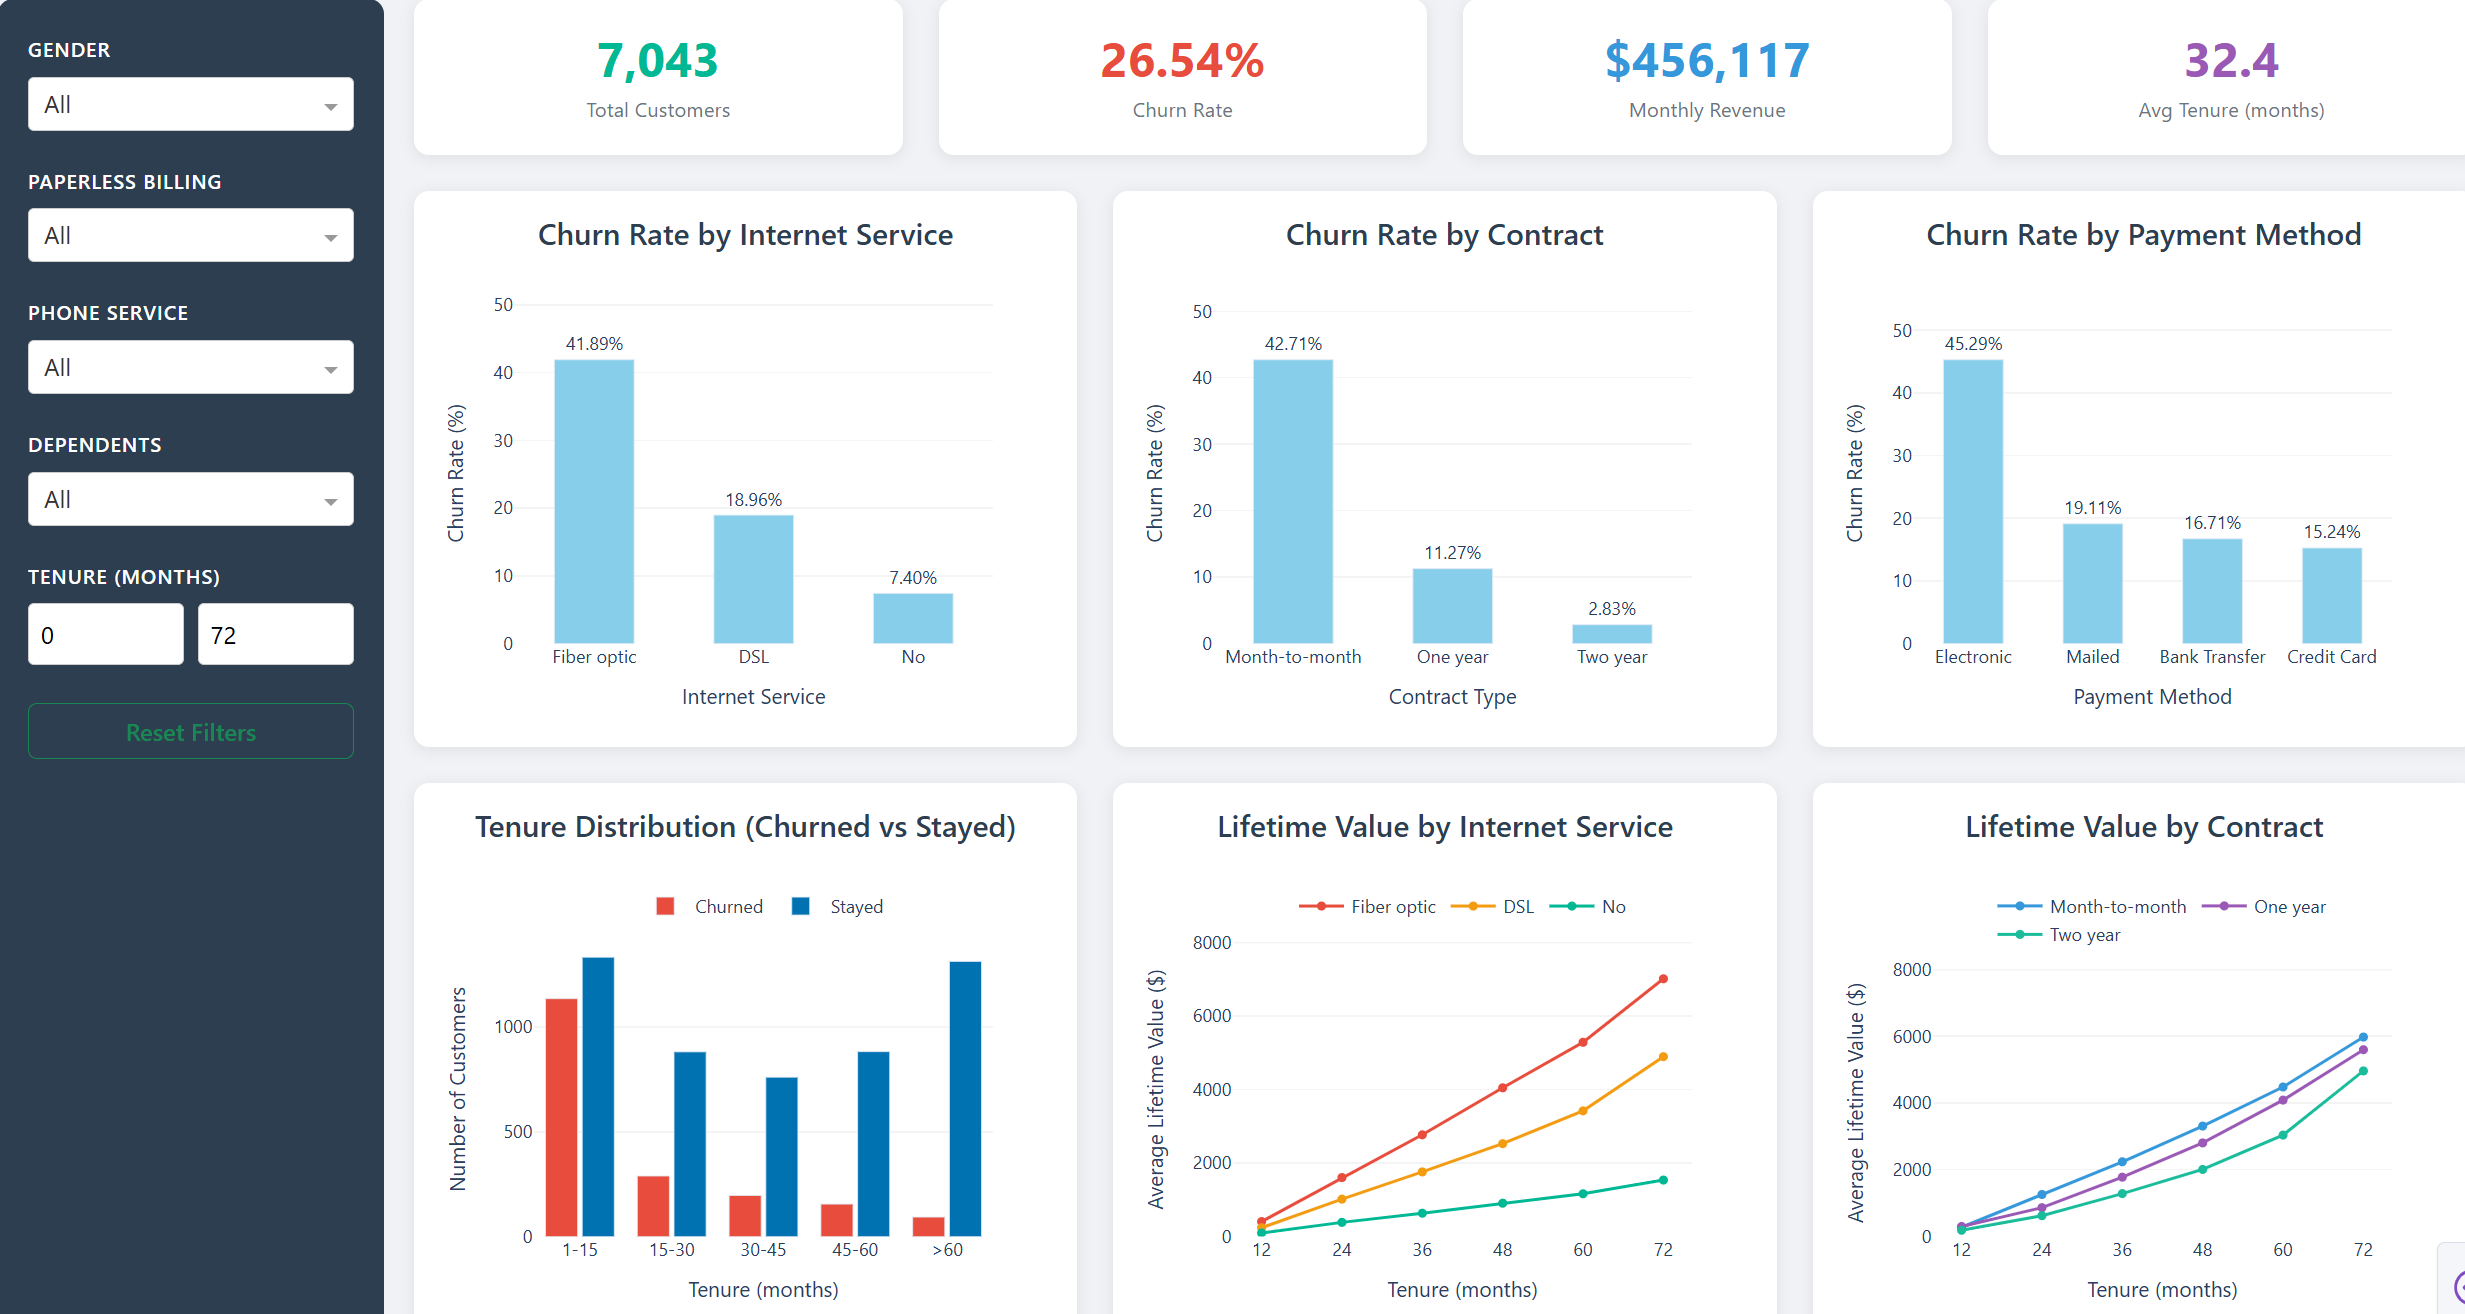
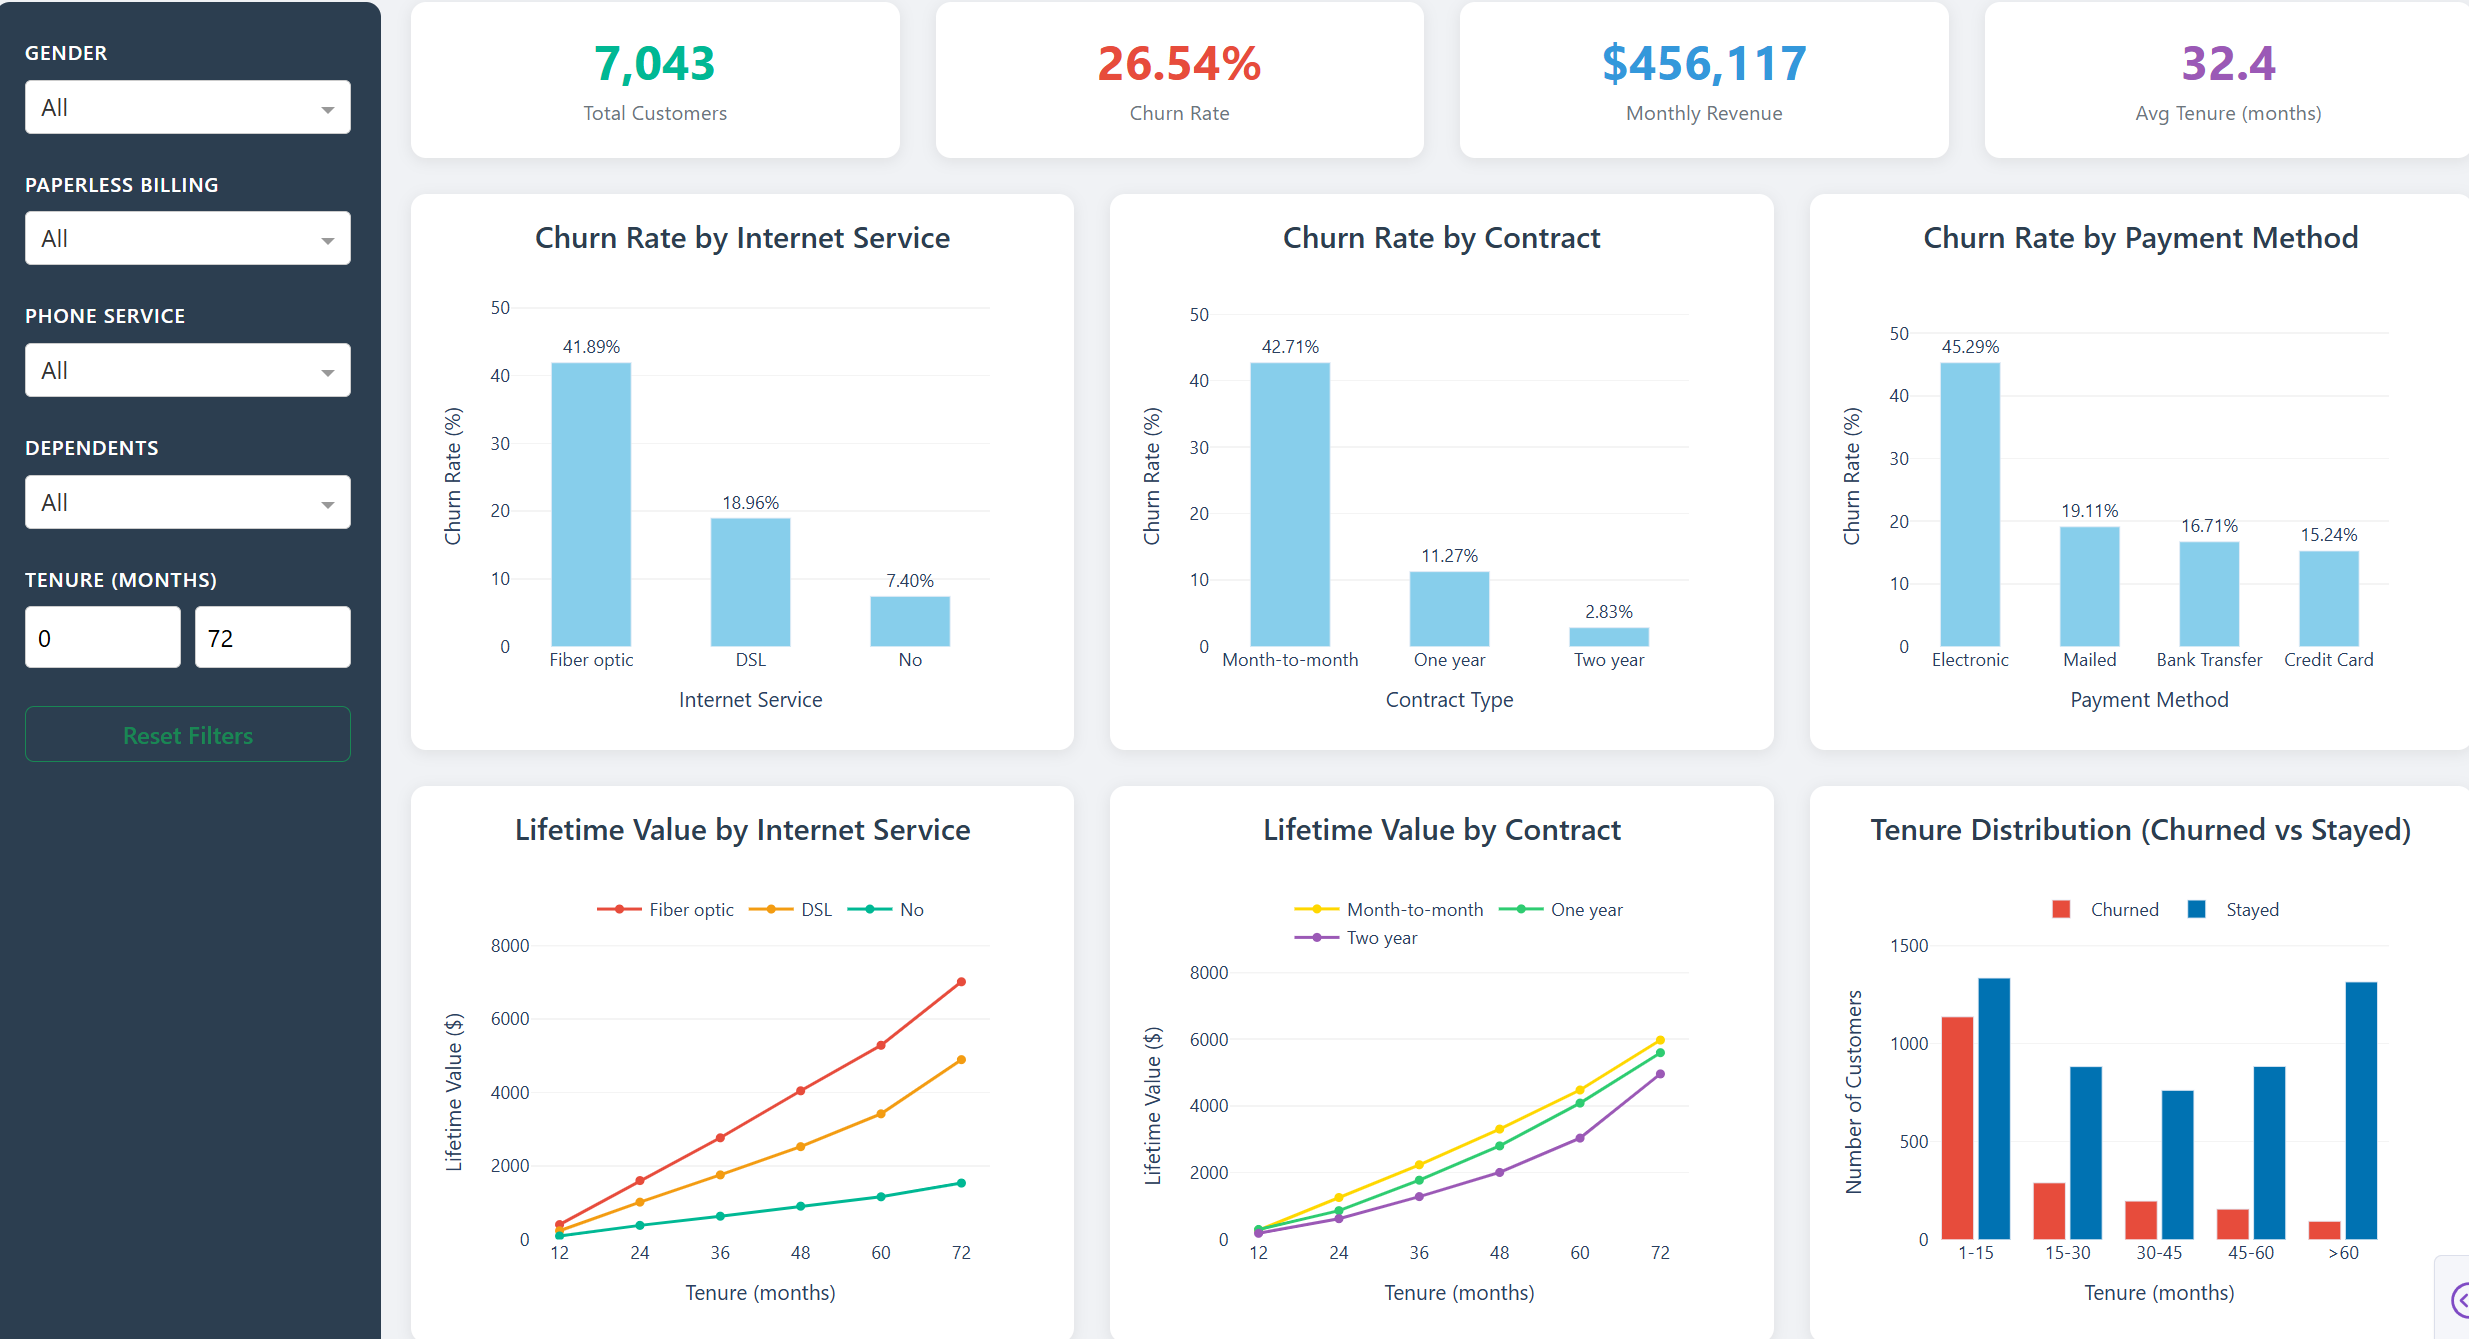
Update demo

diff --git a/churn_dashboard.py b/churn_dashboard.py
@@ -218,8 +218,10 @@ def create_tenure_histogram(df):
         xaxis_title='Tenure (months)',
         yaxis_title='Number of Customers',
         yaxis=dict(
+            range=[0, 1500],
             showgrid=True,
-            gridcolor='rgba(200, 200, 200, 0.2)'
+            gridcolor='rgba(200, 200, 200, 0.2)',
+            dtick=500
         ),
         barmode='group',
         plot_bgcolor='rgba(0,0,0,0)',
@@ -233,7 +235,21 @@ def create_tenure_histogram(df):
             y=1.05,
             xanchor='center',
             x=0.5
-        )
+        ),
+        shapes=[
+            dict(
+                type='line',
+                x0=0,
+                x1=1,
+                xref='paper',
+                y0=1500,
+                y1=1500,
+                line=dict(
+                    color='rgba(200, 200, 200, 0.4)',
+                    width=1
+                )
+            )
+        ]
     )
     
     return fig
@@ -246,9 +262,24 @@ def create_ltv_by_internet_service_chart(df):
     
     df_copy = df.copy()
     df_copy['TenureBin'] = pd.cut(df_copy['tenure'], bins=bins, labels=labels, include_lowest=True)
+
+    print(df_copy.head())
     
-    # Calculate average TotalCharges (as LTV proxy) by tenure bin and internet service
-    ltv_data = df_copy.groupby(['TenureBin', 'InternetService'], observed=True)['TotalCharges'].mean().reset_index()
+    # Calculate LTV using formula: avg. spend per year per customer x avg. customer tenure in years
+    # LTV = (TotalCharges / tenure in years) * avg tenure in years for that bin
+    ltv_data = df_copy.groupby(['TenureBin', 'InternetService'], observed=True).agg({
+        'TotalCharges': 'mean',
+        'tenure': 'mean'
+    }).reset_index()
+
+    print(ltv_data.head())
+    
+    # Calculate avg spend per year and multiply by avg tenure in years
+    ltv_data['AvgSpendPerYear'] = ltv_data['TotalCharges'] / (ltv_data['tenure'] / 12)
+    ltv_data['TenureYears'] = ltv_data['tenure'] / 12
+    ltv_data['LTV'] = ltv_data['AvgSpendPerYear'] * ltv_data['TenureYears']
+
+    print(ltv_data.head())
     
     # Consistent colors: Fiber optic=red, DSL=orange, No=green
     colors = {
@@ -263,7 +294,7 @@ def create_ltv_by_internet_service_chart(df):
         service_data = ltv_data[ltv_data['InternetService'] == service]
         fig.add_trace(go.Scatter(
             x=service_data['TenureBin'].astype(str),
-            y=service_data['TotalCharges'],
+            y=service_data['LTV'],
             mode='lines+markers',
             name=service,
             line=dict(color=colors[service], width=2),
@@ -272,7 +303,7 @@ def create_ltv_by_internet_service_chart(df):
     
     fig.update_layout(
         xaxis_title='Tenure (months)',
-        yaxis_title='Average Lifetime Value ($)',
+        yaxis_title='Lifetime Value ($)',
         yaxis=dict(
             range=[0, 8000],
             showgrid=True,
@@ -280,7 +311,7 @@ def create_ltv_by_internet_service_chart(df):
         ),
         plot_bgcolor='rgba(0,0,0,0)',
         paper_bgcolor='rgba(0,0,0,0)',
-        margin=dict(l=40, r=40, t=20, b=40),
+        margin=dict(l=40, r=40, t=40, b=40),
         height=300,
         font=dict(family='"Segoe UI", sans-serif'),
         legend=dict(
@@ -317,14 +348,23 @@ def create_ltv_by_contract_chart(df):
     df_copy = df.copy()
     df_copy['TenureBin'] = pd.cut(df_copy['tenure'], bins=bins, labels=labels, include_lowest=True)
     
-    # Calculate average TotalCharges (as LTV proxy) by tenure bin and contract
-    ltv_data = df_copy.groupby(['TenureBin', 'Contract'], observed=True)['TotalCharges'].mean().reset_index()
+    # Calculate LTV using formula: avg. spend per year per customer x avg. customer tenure in years
+    # LTV = (TotalCharges / tenure in years) * avg tenure in years for that bin
+    ltv_data = df_copy.groupby(['TenureBin', 'Contract'], observed=True).agg({
+        'TotalCharges': 'mean',
+        'tenure': 'mean'
+    }).reset_index()
     
-    # Distinct colors: Month-to-month=blue, One year=purple, Two year=teal
+    # Calculate avg spend per year and multiply by avg tenure in years
+    ltv_data['AvgSpendPerYear'] = ltv_data['TotalCharges'] / (ltv_data['tenure'] / 12)
+    ltv_data['TenureYears'] = ltv_data['tenure'] / 12
+    ltv_data['LTV'] = ltv_data['AvgSpendPerYear'] * ltv_data['TenureYears']
+    
+    # Distinct colors: Month-to-month=yellow, One year=green, Two year=purple
     colors = {
-        'Month-to-month': '#3498db',
-        'One year': '#9b59b6',
-        'Two year': '#1abc9c'
+        'Month-to-month': '#FFD700',
+        'One year': '#2ecc71',
+        'Two year': '#9b59b6'
     }
     
     fig = go.Figure()
@@ -333,7 +373,7 @@ def create_ltv_by_contract_chart(df):
         contract_data = ltv_data[ltv_data['Contract'] == contract]
         fig.add_trace(go.Scatter(
             x=contract_data['TenureBin'].astype(str),
-            y=contract_data['TotalCharges'],
+            y=contract_data['LTV'],
             mode='lines+markers',
             name=contract,
             line=dict(color=colors[contract], width=2),
@@ -342,7 +382,7 @@ def create_ltv_by_contract_chart(df):
     
     fig.update_layout(
         xaxis_title='Tenure (months)',
-        yaxis_title='Average Lifetime Value ($)',
+        yaxis_title='Lifetime Value ($)',
         yaxis=dict(
             range=[0, 8000],
             showgrid=True,
@@ -350,7 +390,7 @@ def create_ltv_by_contract_chart(df):
         ),
         plot_bgcolor='rgba(0,0,0,0)',
         paper_bgcolor='rgba(0,0,0,0)',
-        margin=dict(l=40, r=40, t=20, b=40),
+        margin=dict(l=40, r=40, t=40, b=40),
         height=300,
         font=dict(family='"Segoe UI", sans-serif'),
         legend=dict(
@@ -790,31 +830,6 @@ app.layout = dbc.Container([
                     dbc.Card([
                         dbc.CardBody([
                             html.H5(
-                                "Tenure Distribution (Churned vs Stayed)",
-                                style={
-                                    'textAlign': 'center',
-                                    'color': '#2c3e50',
-                                    'fontWeight': '600',
-                                    'marginBottom': '15px',
-                                    'fontFamily': '"Segoe UI", sans-serif'
-                                }
-                            ),
-                            dcc.Graph(
-                                id='tenure-histogram',
-                                config={'displayModeBar': False}
-                            )
-                        ])
-                    ], style={
-                        'borderRadius': '10px',
-                        'border': 'none',
-                        'boxShadow': '0 2px 10px rgba(0,0,0,0.08)'
-                    })
-                ], md=4),
-                
-                dbc.Col([
-                    dbc.Card([
-                        dbc.CardBody([
-                            html.H5(
                                 "Lifetime Value by Internet Service",
                                 style={
                                     'textAlign': 'center',
@@ -851,6 +866,31 @@ app.layout = dbc.Container([
                             ),
                             dcc.Graph(
                                 id='ltv-by-contract-chart',
+                                config={'displayModeBar': False}
+                            )
+                        ])
+                    ], style={
+                        'borderRadius': '10px',
+                        'border': 'none',
+                        'boxShadow': '0 2px 10px rgba(0,0,0,0.08)'
+                    })
+                ], md=4),
+                
+                dbc.Col([
+                    dbc.Card([
+                        dbc.CardBody([
+                            html.H5(
+                                "Tenure Distribution (Churned vs Stayed)",
+                                style={
+                                    'textAlign': 'center',
+                                    'color': '#2c3e50',
+                                    'fontWeight': '600',
+                                    'marginBottom': '15px',
+                                    'fontFamily': '"Segoe UI", sans-serif'
+                                }
+                            ),
+                            dcc.Graph(
+                                id='tenure-histogram',
                                 config={'displayModeBar': False}
                             )
                         ])

diff --git a/README.md b/README.md
@@ -74,8 +74,10 @@ This project provides a business analytics dashboard that helps identify key fac
 Telco_Churn_Analytics/
 ├── churn_dashboard.py                      # Main Dash application
 ├── data/
-│   └── Telco-Customer-Churn.csv  # Dataset
-├── Telco_Churn_Analytics.ipynb             # Jupyter notebook for EDA
+│   └── Telco-Customer-Churn.csv            # Dataset
+├── notebooks/
+│   └── Telco_Churn_Analytics.ipynb         # Jupyter notebook for EDA
+├── requirements.txt
 └── README.md                               # Project documentation
 ```
 
